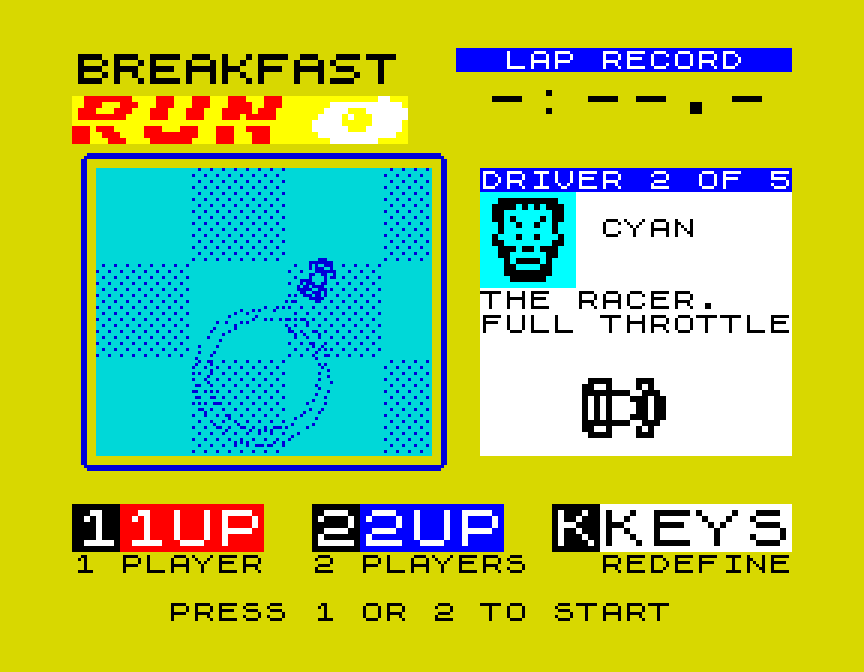
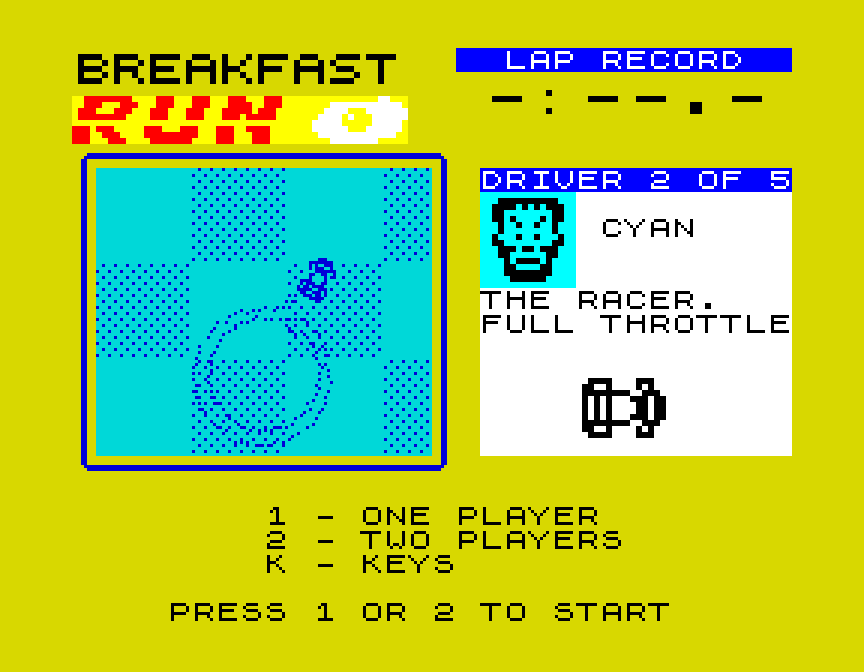
Title: the three choices as a plain list in normal letters (1 - ONE PLAYER, 2 - TWO PLAYERS, K - KEYS)
Grant, 14 Nov 2026: "Please make the 1UP and 2UP and keys just normal size". The big key caps,
the double-size 1UP / 2UP / KEYS blocks and their captions are gone; 26 bytes of tables freed.

Claude-Session: https://claude.ai/code/session_01476U86GiAC8cKs57wAJvc3

Changed region(s): [[0.0625, 0.75, 0.9375, 0.875]]

diff --git a/tests/title_test.py b/tests/title_test.py
@@ -3,7 +3,7 @@ choose 1UP or 2UP to play, K to customize keys, have the title screen have some 
 sequence showing the different drivers, maybe a face and have that car skid around").
 src/title.asm, title2.asm, title3.asm; layout A of docs/design/TITLE-SCREEN.md. Checks:
   - the title comes up after loading, before the race: logo twice the size, LAP RECORD, the cloth
-    stage in its frame, a driver's card, 1 = 1UP, 2 = 2UP, K = KEYS, the flashing prompt
+    stage in its frame, a driver's card, the choices as a plain list (1 - ONE PLAYER, 2 - TWO PLAYERS, K - KEYS), the flashing prompt
   - the attract sequence: the car moves, only on the cloth, leaves skid marks; all five drivers
     take their turn (number, name, face colour change)
   - 2 says 2UP COMING SOON and the prompt comes back
@@ -59,10 +59,10 @@ with Racer(headless=True) as sp:
     ok(screen_text(sp, 5, 18, 13) == 'DRIVER 1 OF 5' and attr(sp, 5, 18) == 0x4F and attr(sp, 16, 30) == 0x78 and screen_text(sp, 7, 23, 3) == 'YOU'
        and attr(sp, 6, 18) == 0x57 and sb[48:80, 144:176].any() and sb[104:136, 176:208].any(),
        'the driver\'s card: DRIVER 1 OF 5, a face on the car\'s colour, YOU, the car')
-    ok(sb[152:168, 8:24].any() and attr(sp, 19, 1) == 0x47 and attr(sp, 19, 3) == 0x57 and screen_text(sp, 21, 1, 8) == '1 PLAYER'
-       and attr(sp, 19, 11) == 0x47 and attr(sp, 19, 13) == 0x4F and screen_text(sp, 21, 11, 9) == '2 PLAYERS'
-       and attr(sp, 19, 21) == 0x47 and attr(sp, 19, 23) == 0x78 and screen_text(sp, 21, 23, 8) == 'REDEFINE',
-       'the choices, each with its key as a key cap: 1 1UP (red), 2 2UP (blue), K KEYS')
+    ok(screen_text(sp, 19, 9, 14) == '1 - ONE PLAYER' and screen_text(sp, 20, 9, 15) == '2 - TWO PLAYERS' and screen_text(sp, 21, 9, 8) == 'K - KEYS'
+       and all(attr(sp, r, c) == 0x30 for r in range(18, 23) for c in range(32))
+       and not sb[144:152].any() and not sb[176:184].any() and not sb[152:176, 0:72].any() and not sb[152:176, 192:256].any(),
+       'the choices, a plain list in normal letters, black on the table: 1 - ONE PLAYER, 2 - TWO PLAYERS, K - KEYS')
     ok(screen_text(sp, 23, 5, 21) == 'PRESS 1 OR 2 TO START' and all(attr(sp, 23, c) == 0xB0 for c in range(5, 26)),
        'PRESS 1 OR 2 TO START, flashing')
     # the attract sequence: 45 s, sampled 10 times a second
